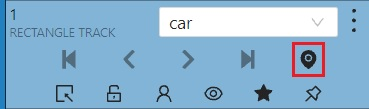
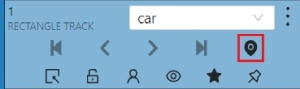
Improving documentation about tracker SiamMask  (#3807)
* update docs

* fix mistakes

* fix file name

* fix mistake

diff --git a/site/content/en/docs/manual/advanced/ai-tools.md b/site/content/en/docs/manual/advanced/ai-tools.md
@@ -91,7 +91,7 @@ and where is a background. Negative points are optional.
 
 Detectors are used to automatically annotate one frame. Supported DL models are suitable only for certain labels.
 
-- Before you start, click the magic wand on the controls sidebar and select the Detectors icon tab.
+- Before you start, click the `magic wand` on the controls sidebar and select the `Detectors` tab.
   You need to match the labels of the DL model (left column) with the labels in your task (right column).
   Then click `Annotate`.
 
@@ -101,19 +101,30 @@ Detectors are used to automatically annotate one frame. Supported DL models are 
   In the [Automatic annotation](/docs/manual/advanced/automatic-annotation/) section you can read
   how to make automatic annotation of all frames.
 
+### Mask RCNN
+
+The model generates polygons for each instance of an object in the image.
+
+### Faster RCNN
+
+The model generates bounding boxes for each instance of an object in the image. In this model,
+RPN and Fast R-CNN are combined into a single network.
+
 ## Trackers
 
 Trackers are used to automatically annotate an object using bounding box.
 Supported DL models are not bound to the label and can be used for any objects.
 
 - Before you start, select the `magic wand` on the controls sidebar and go to the `Trackers` tab.
-  Then select a label for the object and сlick `Track`. Then annotate the desired objects with the
+  Then select a `Label` and `Tracker` for the object and click `Track`. Then annotate the desired objects with the
   bounding box in the first frame.
 
-  ![Start tracking an object](/images/trackers_tab.png)
+  ![Start tracking an object](/images/trackers_tab.jpg)
 
 - All annotated objects will be automatically tracked when you move to the next frame.
   For tracking, use `Next` button on the top panel or the `F` button to move on to the next frame.
+
+  ![Annotation using a tracker](/images/tracker_siammask_DETRAC.gif)
 
 - You can enable/disable tracking using `tracker switcher` on sidebar.
 
@@ -121,8 +132,17 @@ Supported DL models are not bound to the label and can be used for any objects.
 
 - Trackable objects have indication on canvas with a model indication.
 
-  ![Tracker indication](/images/tracker_indication.png)
+  ![Tracker indication](/images/tracker_indication.jpg)
 
-- A pop-up window displays information about the number of tracked objects.
+- You can monitoring the process by the messages appearing at the top.
+  If you change one or more objects, before moving to the next frame, you will see a message that
+  the objects states initialization is taking place. The objects that you do not change are already on the server
+  and therefore do not require initialization. After the objects are initialized, tracking will occur.
 
-  ![Tracker pop-up window](/images/tracker_pop-up_window.png)
+  ![Tracker pop-up window](/images/tracker_pop-up_window.jpg)
+
+### SiamMask
+
+Fast online Object Tracking and Segmentation. Tracker is able to track different objects in one server request.
+Trackable object will be tracked automatically if the previous frame was
+a latest keyframe for the object. Have tracker indication on canvas. `SiamMask` tracker supported CUDA.

diff --git a/site/content/en/docs/manual/advanced/serverless-tutorial.md b/site/content/en/docs/manual/advanced/serverless-tutorial.md
@@ -145,13 +145,17 @@ finish the process.
 ![Create a video annotation task](/images/create_video_task.png)
 
 Open the task and use [AI tools][cvat-ai-tools-user-guide] to start tracking
-an object. Draw a bounding box around an object.
+an object. Draw a bounding box around an object, and sequentially switch
+through the frame and correct the restrictive box if necessary.
 
-![Start tracking an object](/images/start_tracking.png)
+![Start tracking an object](/images/trackers_tab.jpg)
 
-Finally you will get bounding boxes for 10 frames by default.
+Finally you will get bounding boxes.
 
 ![SiamMask results](/images/siammask_results.gif)
+
+`SiamMask` model is more optimized to work on Nvidia GPUs.
+For more information about deploying the model for the GPU, [read on](#objects-segmentation-using-mask-rcnn).
 
 ### Object detection using YOLO-v3
 

diff --git a/site/content/en/docs/manual/basics/vocabulary.md b/site/content/en/docs/manual/basics/vocabulary.md
@@ -42,3 +42,10 @@ Tracks are created in `Track mode`
 Can be used to reduce the annotation file and to facilitate editing polygons.
 
 ![](/images/approximation_accuracy.gif)
+
+---
+
+**Trackable** object will be tracked automatically if the previous frame was
+a latest keyframe for the object. More details in the section [trackers](/docs/manual/advanced/ai-tools/#trackers).
+
+![](/images/tracker_indication.jpg)
